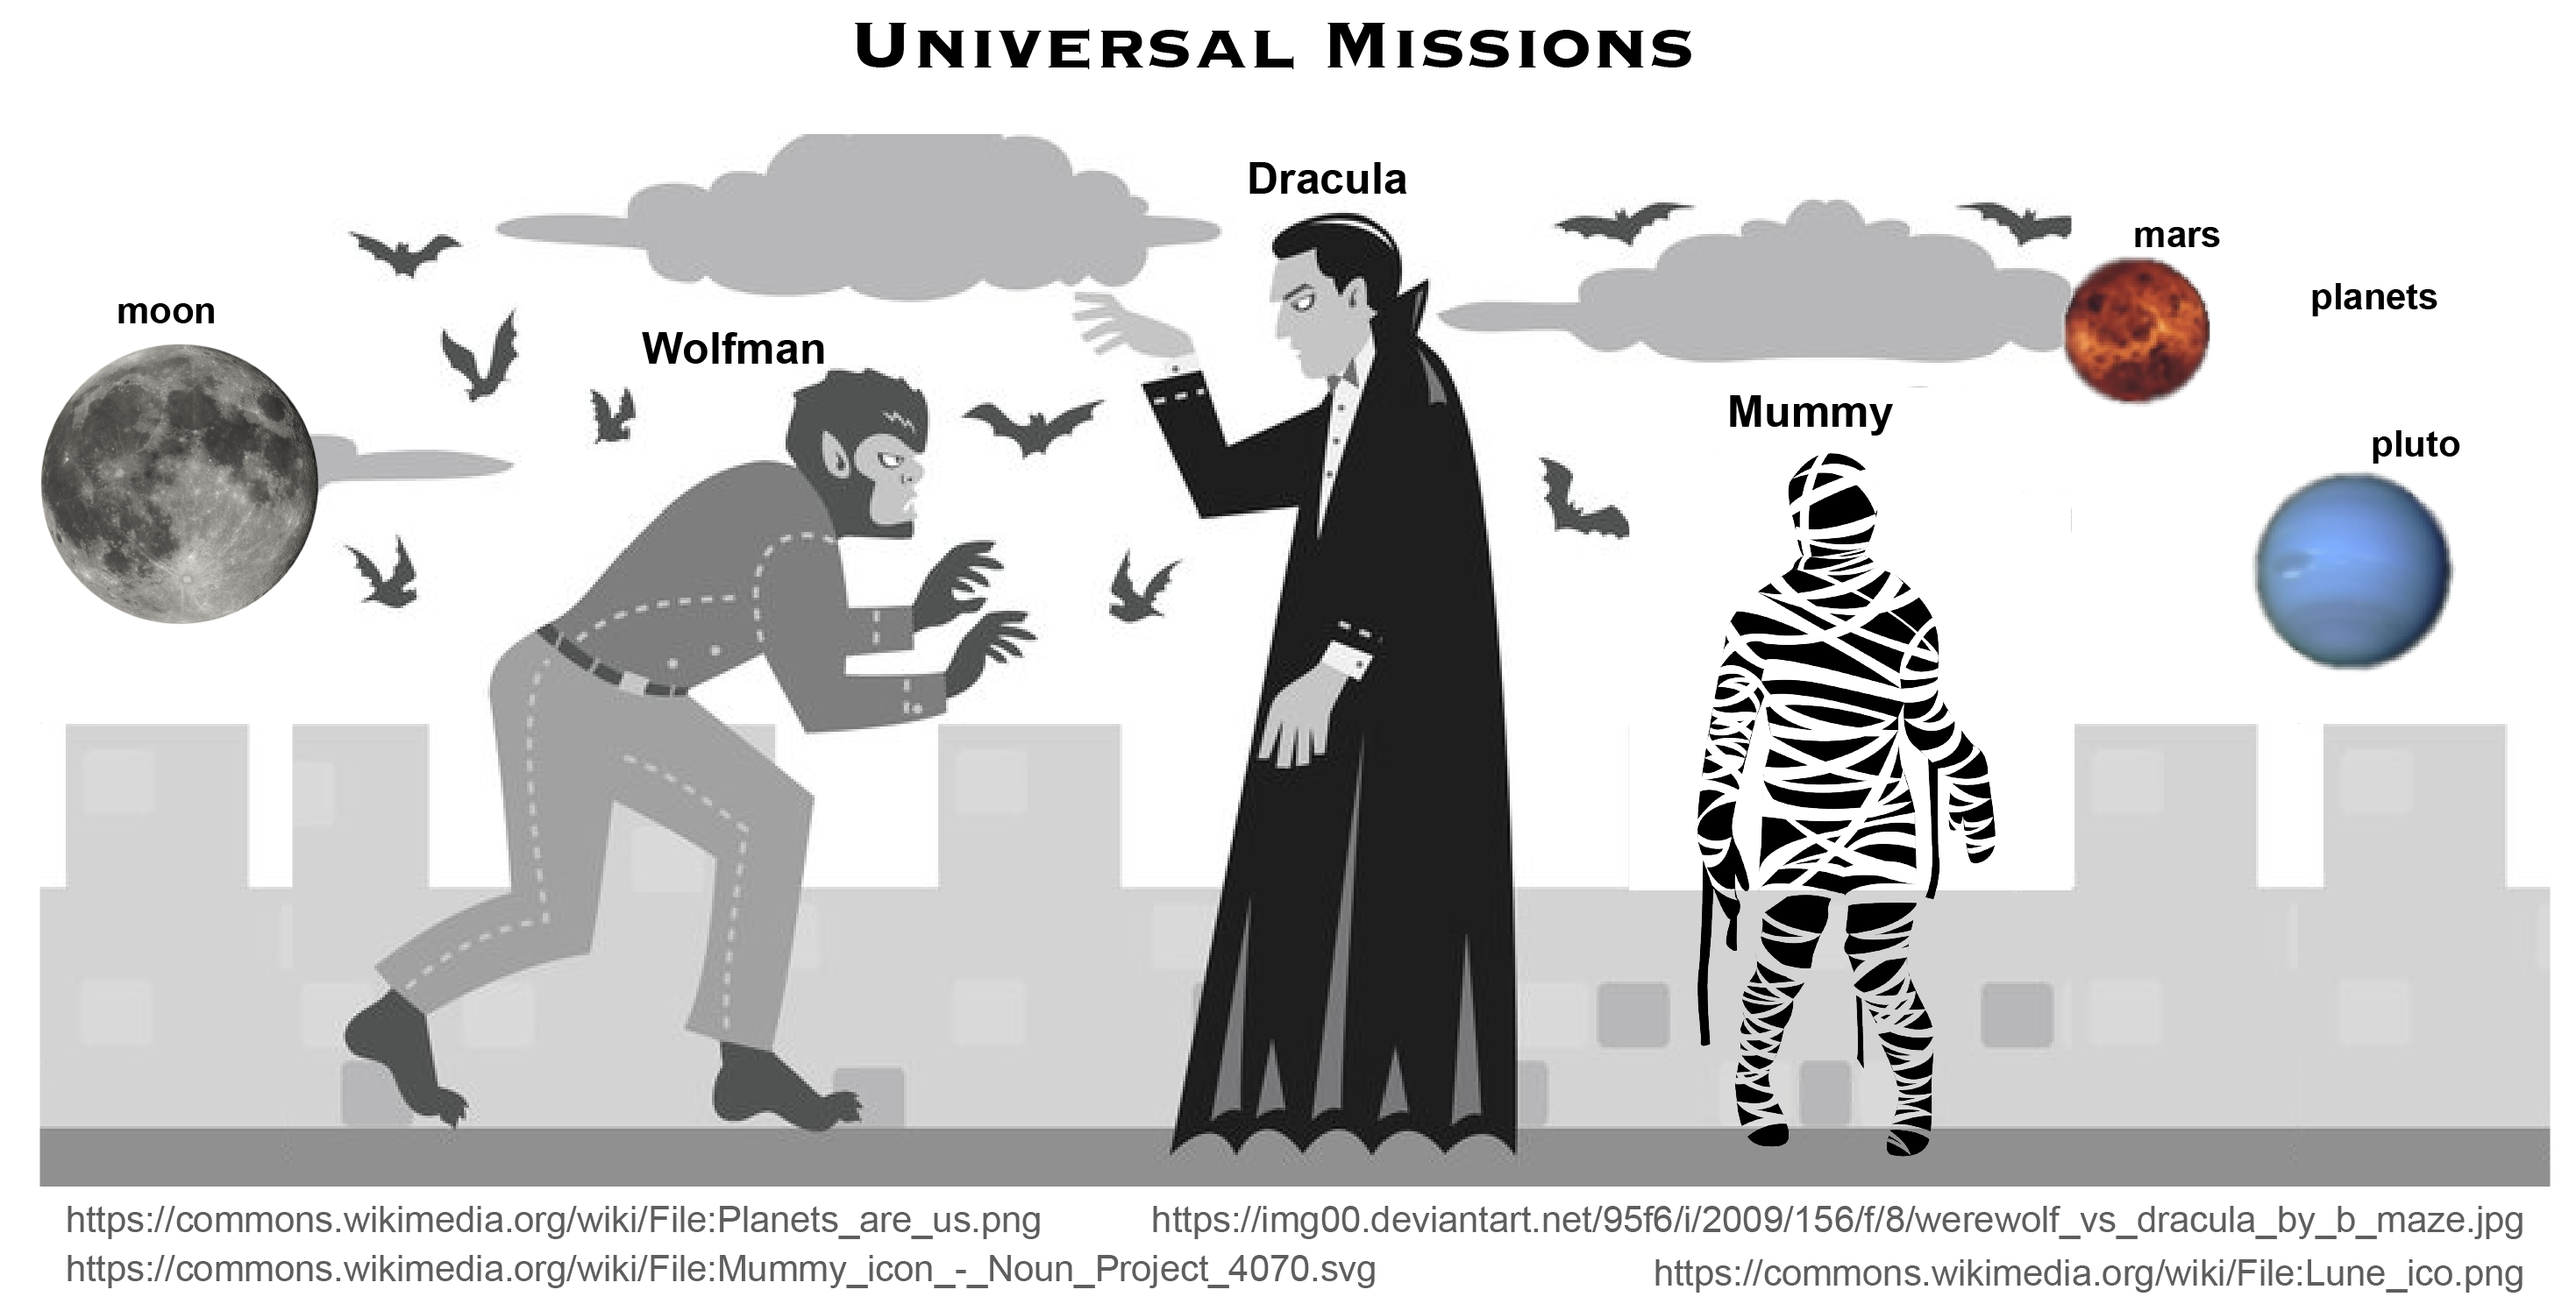
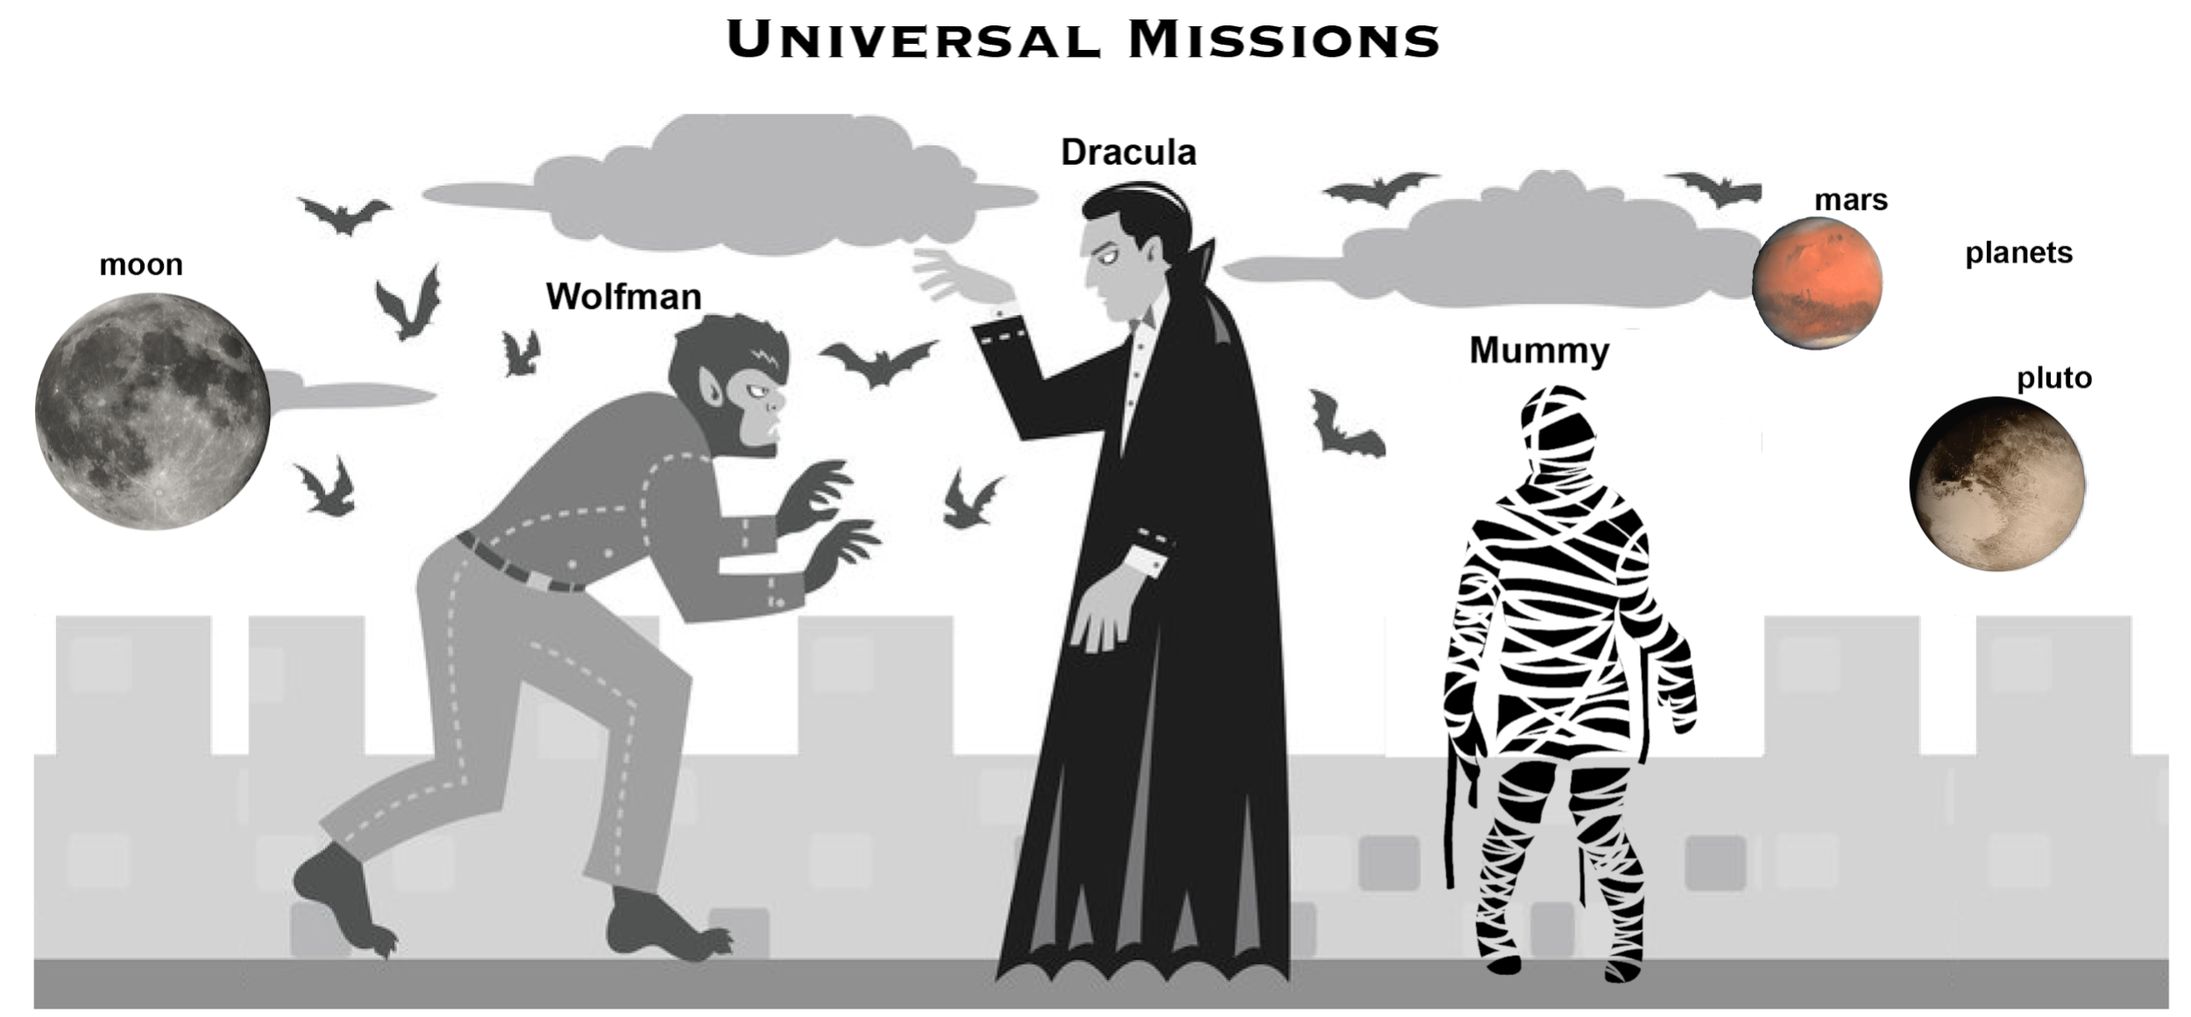
Update lesson 03 motivatingexample.png with correct planets

diff --git a/episodes/03-create.md b/episodes/03-create.md
@@ -20,8 +20,10 @@ is possible to send a planetary lander to Mars.
 ![motivatingexample](../fig/motivatingexample.png)
 [Werewolf vs dracula](https://www.deviantart.com/b-maze/art/Werewolf-vs-Dracula-124893530)
 by [b-maze](https://www.deviantart.com/b-maze) / [Deviant Art](https://www.deviantart.com/).
-[Planets](https://commons.wikimedia.org/wiki/File:Planets_are_us.png) /
-[CC0 1.0](https://creativecommons.org/publicdomain/zero/1.0/).
+[Mars](https://en.wikipedia.org/wiki/File:OSIRIS_Mars_true_color.jpg) /
+[CC BY 3.0](https://creativecommons.org/licenses/by/3.0/deed.en).
+[Pluto](https://commons.wikimedia.org/wiki/File:PIA19873-Pluto-NewHorizons-FlyingPastImage-20150714-transparent.png) /
+by NASA.
 [Mummy](https://commons.wikimedia.org/wiki/File:Mummy_icon_-_Noun_Project_4070.svg)
 &copy; Gilad Fried / [The Noun Project](https://thenounproject.com/) /
 [CC BY 3.0](https://creativecommons.org/licenses/by/3.0/deed.en).
